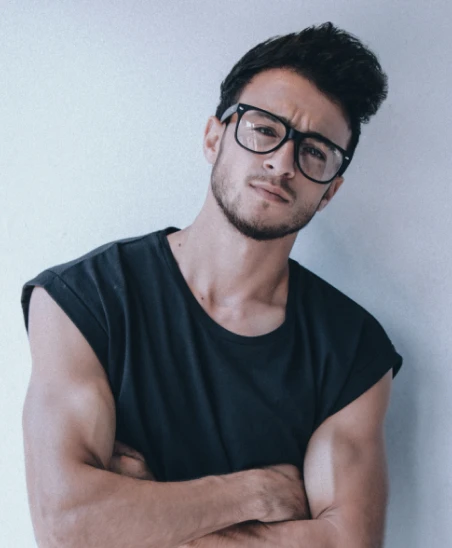
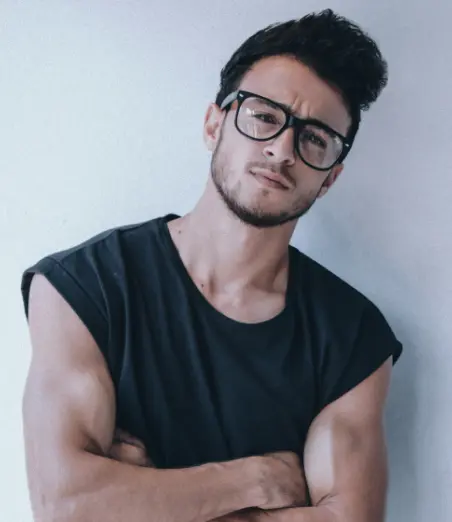
judges img

diff --git a/source/index.html b/source/index.html
@@ -239,7 +239,7 @@
                   <div class="judges-card__front">
                     <div class="judges-card__image">
                       <picture>
-                        <source media="(max-width: 767px)" srcset="img/anna-mobile-1x.webp 1x, img/anna-mobile-2x.webp 2x" width="226" height="274" type="image/webp">
+                        <source media="(max-width: 767px)" srcset="img/anna-mobile-1x.webp 1x, img/anna-mobile-2x.webp 2x" width="260" height="300" type="image/webp">
                         <source media="(max-width: 1365px)" srcset="img/anna-tablet-1x.webp 1x, img/anna-tablet-1x.webp 2x" width="260" height="300" type="image/webp">
                         <img src="img/anna-1x.webp" srcset="img/anna-2x.webp" width="260" height="294" alt="Анна Павлова">
                       </picture>
@@ -260,7 +260,7 @@
                   <div class="judges-card__front">
                     <div class="judges-card__image">
                       <picture>
-                        <source media="(max-width: 767px)" srcset="img/alexy-mobile-1x.webp 1x, img/alexy-mobile-2x.webp 2x" width="226" height="274" type="image/webp">
+                        <source media="(max-width: 767px)" srcset="img/alexy-mobile-1x.webp 1x, img/alexy-mobile-2x.webp 2x" width="260" height="300" type="image/webp">
                         <source media="(max-width: 1365px)" srcset="img/alexy-tablet-1x.webp 1x, img/alexy-tablet-2x.webp 2x" width="260" height="300" type="image/webp">
                         <img src="img/alexy-1x.webp" srcset="img/alexy-2x.webp" width="260" height="294" alt="Алексей Лавров">
                       </picture>
@@ -281,7 +281,7 @@
                   <div class="judges-card__front">
                     <div class="judges-card__image">
                       <picture>
-                        <source media="(max-width: 767px)" srcset="img/alexandr-mobile-1x.webp 1x, img/alexandr-mobile-2x.webp 2x" width="226" height="274" type="image/webp">
+                        <source media="(max-width: 767px)" srcset="img/alexandr-mobile-1x.webp 1x, img/alexandr-mobile-2x.webp 2x" width="260" height="300" type="image/webp">
                         <source media="(max-width: 1365px)" srcset="img/alexandr-tablet-1x.webp 1x, img/alexandr-tablet-2x.webp 2x" width="260" height="300" type="image/webp">
                         <img src="img/alexandr-1x.webp" srcset="img/alexandr-2x.webp" width="260" height="294" alt="Александр Пашков">
                       </picture>
@@ -302,7 +302,7 @@
                   <div class="judges-card__front">
                     <div class="judges-card__image">
                       <picture>
-                        <source media="(max-width: 767px)" srcset="img/mary-mobile-1x.webp 1x, img/mary-mobile-2x.webp 2x" width="226" height="274" type="image/webp">
+                        <source media="(max-width: 767px)" srcset="img/mary-mobile-1x.webp 1x, img/mary-mobile-2x.webp 2x" width="260" height="300" type="image/webp">
                         <source media="(max-width: 1365px)" srcset="img/mary-tablet-1x.webp 1x, img/mary-tablet-2x.webp 2x" width="260" height="300" type="image/webp">
                         <img src="img/mary-1x.webp" srcset="img/mary-2x.webp" width="260" height="294" alt="Мария Кетова">
                       </picture>
@@ -323,7 +323,7 @@
                   <div class="judges-card__front">
                     <div class="judges-card__image">
                       <picture>
-                        <source media="(max-width: 767px)" srcset="img/anna-mobile-1x.webp 1x, img/anna-mobile-2x.webp 2x" width="226" height="274" type="image/webp">
+                        <source media="(max-width: 767px)" srcset="img/anna-mobile-1x.webp 1x, img/anna-mobile-2x.webp 2x" width="260" height="300" type="image/webp">
                         <source media="(max-width: 1365px)" srcset="img/anna-tablet-1x.webp 1x, img/anna-tablet-2x.webp 2x" width="260" height="300" type="image/webp">
                         <img src="img/anna-1x.webp" srcset="img/anna-2x.webp" width="260" height="294" alt="Анна Павлова">
                       </picture>
@@ -344,7 +344,7 @@
                   <div class="judges-card__front">
                     <div class="judges-card__image">
                       <picture>
-                        <source media="(max-width: 767px)" srcset="img/alexy-mobile-1x.webp 1x, img/alexy-mobile-2x.webp 2x" width="226" height="274" type="image/webp">
+                        <source media="(max-width: 767px)" srcset="img/alexy-mobile-1x.webp 1x, img/alexy-mobile-2x.webp 2x" width="260" height="300" type="image/webp">
                         <source media="(max-width: 1365px)" srcset="img/alexy-tablet-1x.webp 1x, img/alexy-tablet-2x.webp 2x" width="260" height="300" type="image/webp">
                         <img src="img/alexy-1x.webp" srcset="img/alexy-2x.webp" width="260" height="294" alt="Алексей Лавров">
                       </picture>
@@ -365,7 +365,7 @@
                   <div class="judges-card__front">
                     <div class="judges-card__image">
                       <picture>
-                        <source media="(max-width: 767px)" srcset="img/alexandr-mobile-1x.webp 1x, img/alexandr-mobile-2x.webp 2x" width="226" height="274" type="image/webp">
+                        <source media="(max-width: 767px)" srcset="img/alexandr-mobile-1x.webp 1x, img/alexandr-mobile-2x.webp 2x" width="260" height="300" type="image/webp">
                         <source media="(max-width: 1365px)" srcset="img/alexandr-tablet-1x.webp 1x, img/alexandr-tablet-2x.webp 2x" width="260" height="300" type="image/webp">
                         <img src="img/alexandr-1x.webp" srcset="img/alexandr-2x.webp" width="260" height="294" alt="Александр Пашков">
                       </picture>
@@ -386,7 +386,7 @@
                   <div class="judges-card__front">
                     <div class="judges-card__image">
                       <picture>
-                        <source media="(max-width: 767px)" srcset="img/mary-mobile-1x.webp 1x, img/mary-mobile-2x.webp 2x" width="226" height="274" type="image/webp">
+                        <source media="(max-width: 767px)" srcset="img/mary-mobile-1x.webp 1x, img/mary-mobile-2x.webp 2x" width="260" height="300" type="image/webp">
                         <source media="(max-width: 1365px)" srcset="img/mary-tablet-1x.webp 1x, img/mary-tablet-2x.webp 2x" width="260" height="300" type="image/webp">
                         <img src="img/mary-1x.webp" srcset="img/mary-2x.webp" width="260" height="294" alt="Мария Кетова">
                       </picture>

diff --git a/source/sass/blocks/judges.scss b/source/sass/blocks/judges.scss
@@ -6,7 +6,7 @@
   }
 
   @include vp-767 {
-    padding: 41px 0 70px;
+    padding: 36px 0 70px;
   }
 }
 
@@ -23,7 +23,9 @@
   }
 
   @include vp-767 {
-    margin: 0 auto 41px;
+    margin: 0 auto 19px;
+    font-size: 32px;
+    // letter-spacing: -0.5px;
   }
 }
 
@@ -38,7 +40,7 @@
 
   @include vp-767 {
     max-width: 290px;
-    padding: 0 32px;
+    padding: 0 15px;
   }
 }
 
@@ -58,6 +60,7 @@
   }
 
   @include vp-767 {
+    display: none;
     left: -6px;
 
     svg {
@@ -84,6 +87,8 @@
   }
 
   @include vp-767 {
+    display: none;
+
     right: -6px;
 
     svg {
@@ -97,4 +102,8 @@
   margin: 0;
   padding: 0;
   list-style-type: none;
+
+  @include vp-767{
+    max-height: 300px;
+  }
 }
